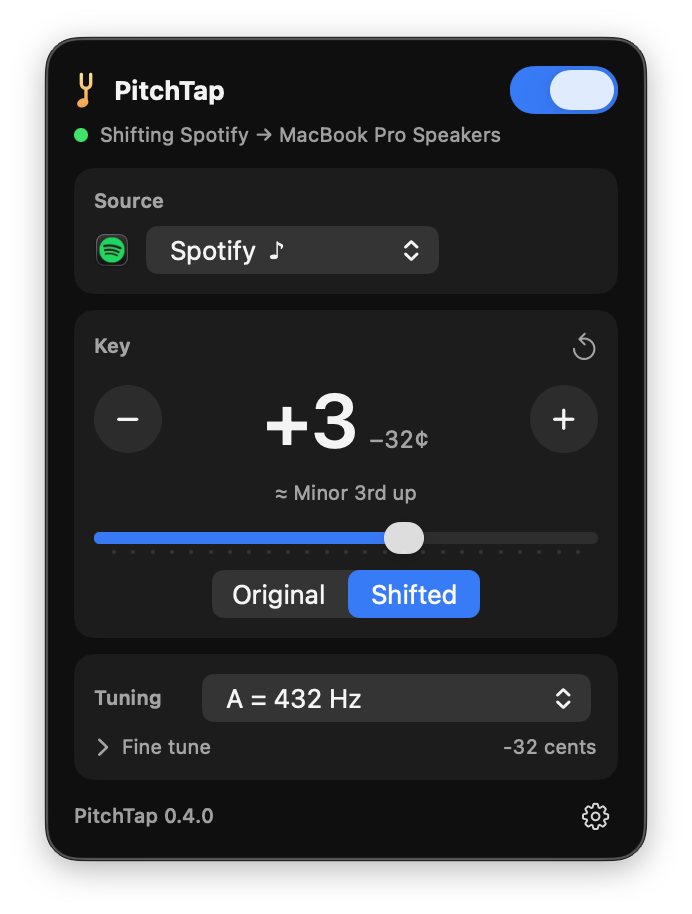
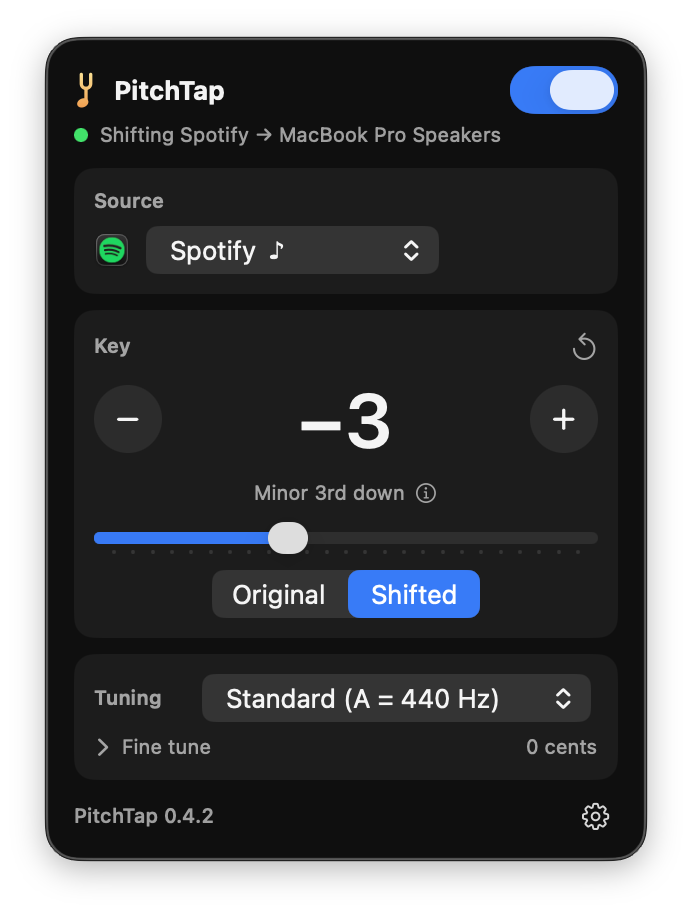
Update the menu screenshot: Spotify at −3, standard tuning, 0.4.2

diff --git a/README.md b/README.md
@@ -26,7 +26,7 @@ PitchTap is a free, open-source **pitch shifter and key changer for macOS**. It 
 - 🎧 **Just for fun.** Hear a song an octave lower, or retune to A = 432 Hz.
 
 <p align="center">
-  <img src="assets/menu.png" width="340" alt="PitchTap menu: switched on and shifting Spotify, key +3 (a minor 3rd up) with the A = 432 Hz tuning, Original and Shifted buttons, and a settings gear">
+  <img src="assets/menu.png" width="340" alt="PitchTap menu: switched on and shifting Spotify, key −3 (a minor 3rd down) with standard tuning, Original and Shifted buttons, and a settings gear">
 </p>
 
 > **What's a semitone?** It's one key on a piano. **+1** moves everything up one key, **+12** a whole octave. **Cents** are for fine tuning: 100 cents make one semitone.
